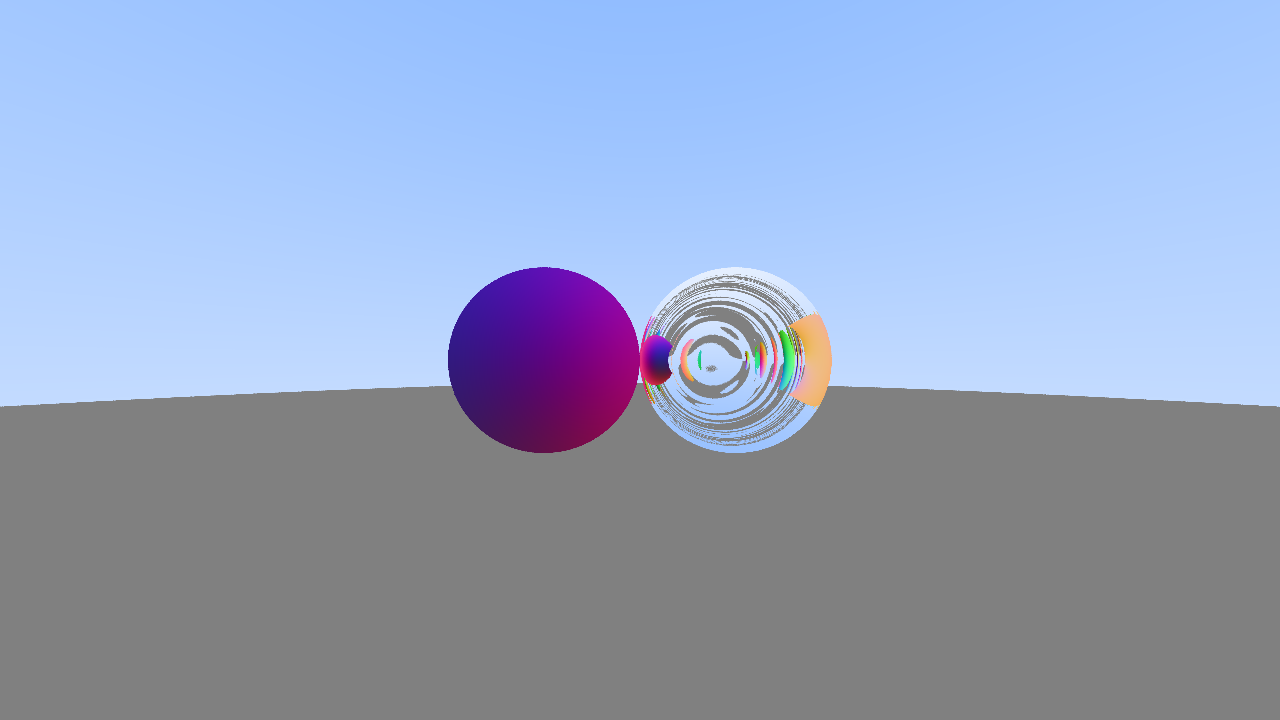
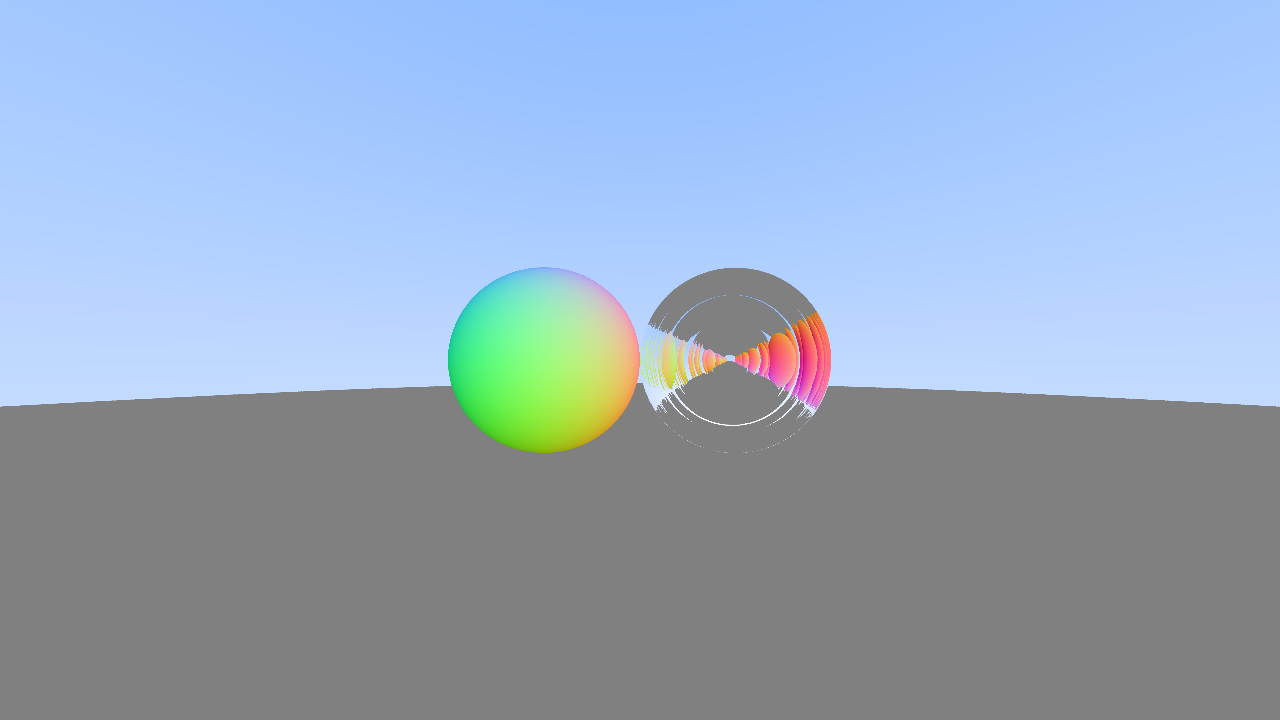
Fixed normal code, now for the reflections.

Changed region(s): [[0.3438, 0.3667, 0.6562, 0.6417]]

diff --git a/archer/src/geometries/sphere.rs b/archer/src/geometries/sphere.rs
@@ -12,25 +12,16 @@ pub struct Sphere {
 impl Geometry for Sphere {
     fn intersect(&self, incoming: &Ray) -> Option<(Point3<f32>, Vector3<f32>)> {
         // Origin
-        let oc: Vector3<f32> = self.position - incoming.origin;
+        let oc: Vector3<f32> = incoming.origin - self.position;
 
         // Coefficients and discriminant
         let a: f32 = incoming.direction.dot(&incoming.direction);
-        let b: f32 = -2.0 * incoming.direction.dot(&oc);
+        let b: f32 = 2.0 * incoming.direction.dot(&oc);
         let c: f32 = oc.dot(&oc) - self.radius * self.radius;
         let discriminant: f32 = b * b - 4.0 * a * c;
 
         if discriminant >= 0.0 {
-            let t1 = -b - discriminant.sqrt() / (2.0 * a);
-            let t2 = -b + discriminant.sqrt() / (2.0 * a);
-
-            let mut t = 0.0;
-            if t1 < t2 {
-                t = t1;
-            } else {
-                t = t2;
-            }
-
+            let t = (-b - f32::sqrt(discriminant)) / (2.0 * a);
             let point = incoming.position_at(t);
             let normal = (point - self.position).normalize();
 

diff --git a/archer/src/materials/perfect_mirror.rs b/archer/src/materials/perfect_mirror.rs
@@ -6,17 +6,11 @@ use crate::materials::base::Material;
 
 pub struct PerfectMirror {}
 
-impl PerfectMirror {
-    pub fn reflect(v: Vector3<f32>, n: Vector3<f32>) -> Vector3<f32> {
-        v - 2.0 * v.dot(&n) * n
-    }
-}
-
 impl Material for PerfectMirror {
     fn bounce(&self, incoming: &Ray, hit_point: Point3<f32>, normal: Normal<f32>) -> Ray {
         let mut bounced = Ray::new_empty();
         bounced.origin = hit_point;
-        bounced.direction = PerfectMirror::reflect(incoming.direction.normalize(), normal.normalize());
+        bounced.direction = incoming.direction - 2.0 * incoming.direction.dot(&normal) * normal;
 
         return bounced;
     }
